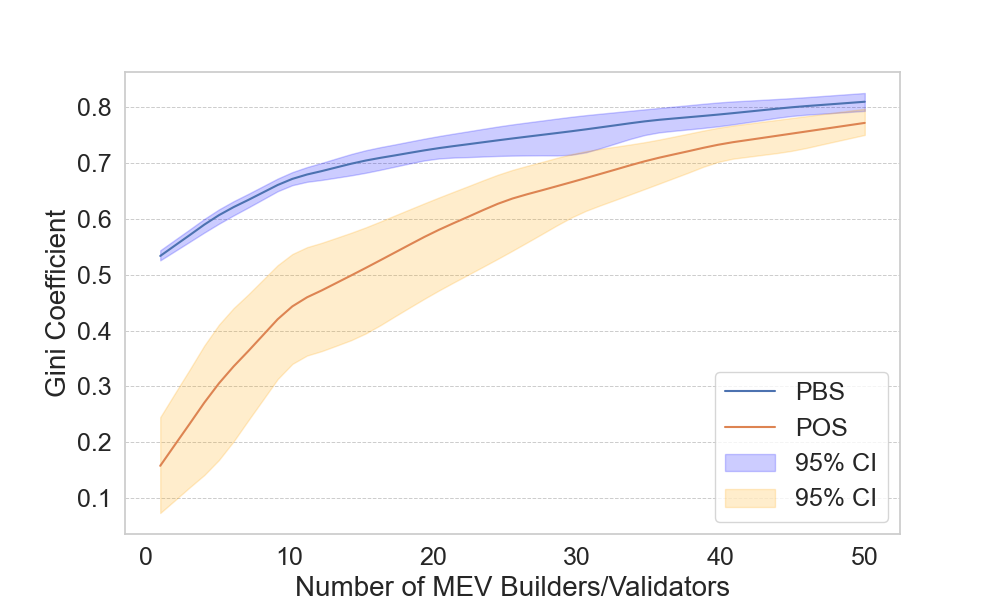
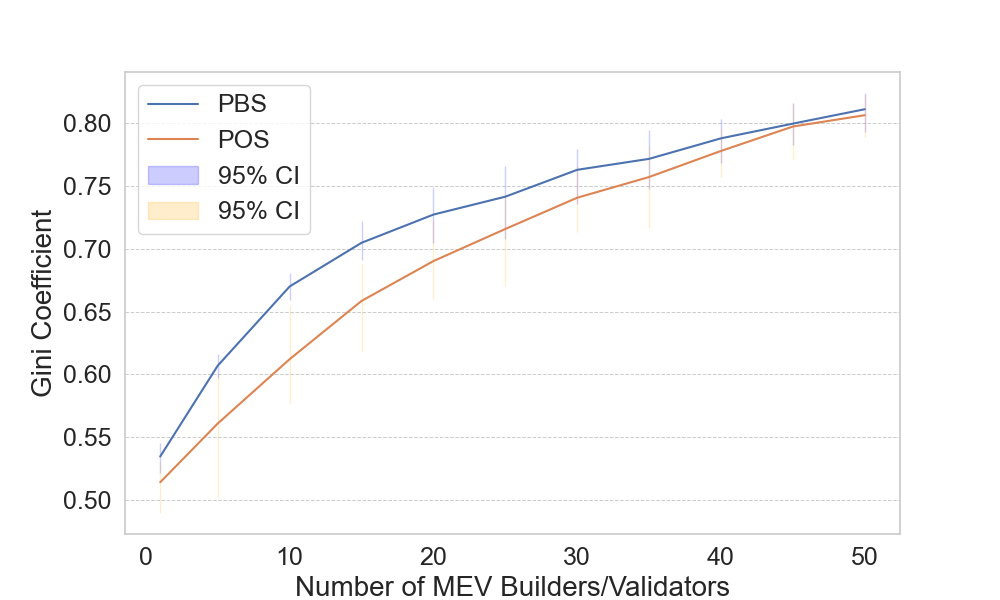
change user

diff --git a/plots/new/vary_user.py b/plots/new/vary_user.py
@@ -1,0 +1,103 @@
+import pandas as pd
+import numpy as np
+import matplotlib.pyplot as plt
+import seaborn as sns
+import os
+
+sns.set_theme(style="whitegrid")
+
+def compute_gini(array):
+    """Compute the Gini coefficient of a numpy array."""
+    array = array.astype(float).flatten()
+    if np.amin(array) < 0:
+        array -= np.amin(array)
+    array += 0.0000001  # To avoid division by zero
+    array = np.sort(array)
+    index = np.arange(1, array.shape[0] + 1)
+    n = array.shape[0]
+    return ((np.sum((2 * index - n - 1) * array)) / (n * np.sum(array)))
+
+def load_profits(data_dir, mev_counts):
+    profits = {'pbs': {}, 'pos': {}}
+    for mev_count in mev_counts:
+        for system in ['pbs', 'pos']:
+            run_profits = []
+            for run_id in range(1, 51):  # Adjust based on number of runs
+                file_path = os.path.join(data_dir, f'run{run_id}', f'mev{mev_count}', system, f'transaction_data_{system}.csv')
+                if os.path.exists(file_path):
+                    df = pd.read_csv(file_path)
+                    df['fee'] = pd.to_numeric(df['fee'], errors='coerce')
+                    df['mev_captured'] = pd.to_numeric(df['mev_captured'], errors='coerce')
+                    if 'block_bid' in df.columns:
+                        df['block_bid'] = pd.to_numeric(df['block_bid'], errors='coerce', downcast='float')
+                    else:
+                        df['block_bid'] = 0
+
+                    if system == 'pbs':
+                        df['profit'] = df['fee'] + df['mev_captured'] - df['block_bid']
+                    elif system == 'pos':
+                        df['profit'] = df['fee'] + df['mev_captured']
+
+                    proposer_profits = df.groupby('creator_id')['profit'].sum().values
+                    run_profits.append(proposer_profits)
+
+            if len(run_profits) > 0:
+                run_profits = [profits[np.isfinite(profits) & (profits >= 0)] for profits in run_profits if len(profits) > 0]
+                profits[system][mev_count] = run_profits
+            else:
+                profits[system][mev_count] = np.array([])
+
+    return profits
+
+def calculate_gini_statistics(profits):
+    gini_stats = {'pbs': {}, 'pos': {}}
+    for system in ['pbs', 'pos']:
+        for mev_count, runs in profits[system].items():
+            gini_values = [compute_gini(run) for run in runs if len(run) > 0]
+            if gini_values:
+                mean_gini = np.mean(gini_values)
+                lower_ci = np.percentile(gini_values, 2.5)
+                upper_ci = np.percentile(gini_values, 97.5)
+                gini_stats[system][mev_count] = (mean_gini, lower_ci, upper_ci)
+            else:
+                gini_stats[system][mev_count] = (np.nan, np.nan, np.nan)
+    return gini_stats
+
+def plot_gini_with_confidence(data_dir, mev_counts, output_file):
+    profits = load_profits(data_dir, mev_counts)
+    gini_stats = calculate_gini_statistics(profits)
+
+    gini_pbs = [gini_stats['pbs'].get(mc, (np.nan, np.nan, np.nan))[0] for mc in mev_counts]
+    gini_pos = [gini_stats['pos'].get(mc, (np.nan, np.nan, np.nan))[0] for mc in mev_counts]
+    lower_ci_pbs = [gini_stats['pbs'].get(mc, (np.nan, np.nan, np.nan))[1] for mc in mev_counts]
+    upper_ci_pbs = [gini_stats['pbs'].get(mc, (np.nan, np.nan, np.nan))[2] for mc in mev_counts]
+    lower_ci_pos = [gini_stats['pos'].get(mc, (np.nan, np.nan, np.nan))[1] for mc in mev_counts]
+    upper_ci_pos = [gini_stats['pos'].get(mc, (np.nan, np.nan, np.nan))[2] for mc in mev_counts]
+
+    fig, ax = plt.subplots(figsize=(10, 6))
+    sns.lineplot(x=mev_counts, y=gini_pbs, label='PBS', ax=ax)
+    sns.lineplot(x=mev_counts, y=gini_pos, label='POS', ax=ax)
+    ax.fill_between(mev_counts, lower_ci_pbs, upper_ci_pbs, color='blue', alpha=0.2, label='95% CI')
+    ax.fill_between(mev_counts, lower_ci_pos, upper_ci_pos, color='orange', alpha=0.2, label='95% CI')
+
+    ax.set_xlabel('Number of MEV Builders/Validators', fontsize=20)
+    ax.set_ylabel('Gini Coefficient', fontsize=20)
+    ax.tick_params(axis='both', which='major', labelsize=18)
+    ax.legend(fontsize=18)
+    ax.grid(True)
+    ax.xaxis.grid(True)
+    ax.yaxis.grid(True)
+    ax.xaxis.grid(False)
+    ax.yaxis.grid(True, which='both', linestyle='--', linewidth=0.7)
+
+    plt.savefig(output_file)
+    plt.close()
+
+if __name__ == "__main__":
+    mev_counts = list(range(1, 51))
+    data_dir = 'data/100_runs'
+    plot_gini_with_confidence(data_dir, mev_counts, 'figures/new/smooth_gini_coefficient.png')
+    data_dir_attackall = 'data/100run_attackall'
+    plot_gini_with_confidence(data_dir_attackall, mev_counts, 'figures/new/smooth_gini_coefficient_attackall.png')
+    data_dir_attacknon = 'data/100run_attacknon'
+    plot_gini_with_confidence(data_dir_attacknon, mev_counts, 'figures/new/smooth_gini_coefficient_attacknon.png')
